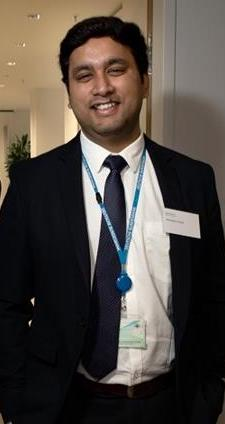
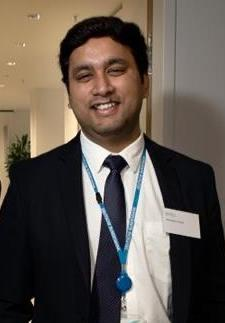
edit profile pic

diff --git a/_pages/about.md b/_pages/about.md
@@ -7,5 +7,5 @@ redirect_from:
   - /about.html
 ---
 
-![my profile picture](/images/deb_2.jpg){: .align-right width="150px"}
+![my profile picture](/images/deb_2.jpg){: .align-right width="200px"}
 I am a PhD student at Università Cattolica del Sacro Cuore and Bielefeld University. 
